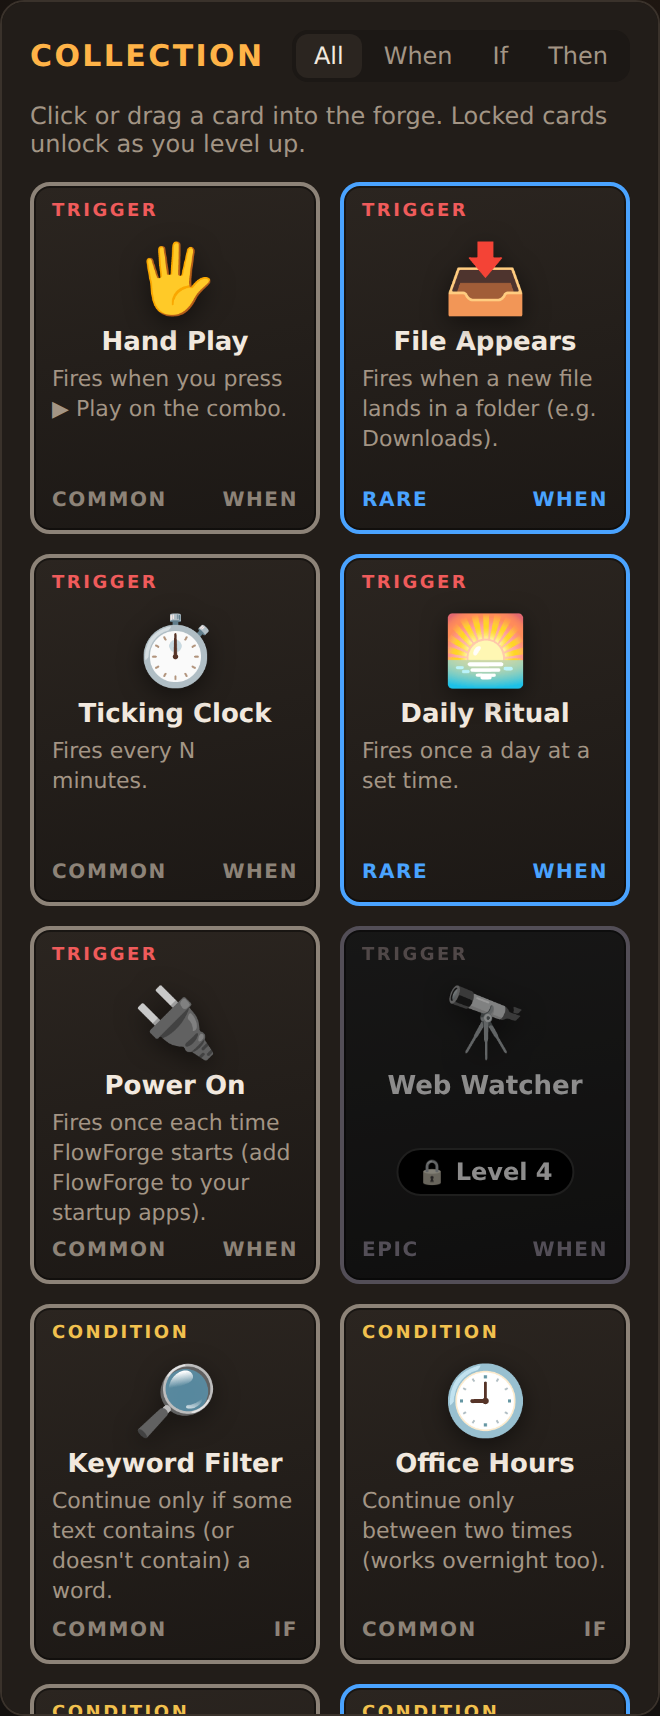
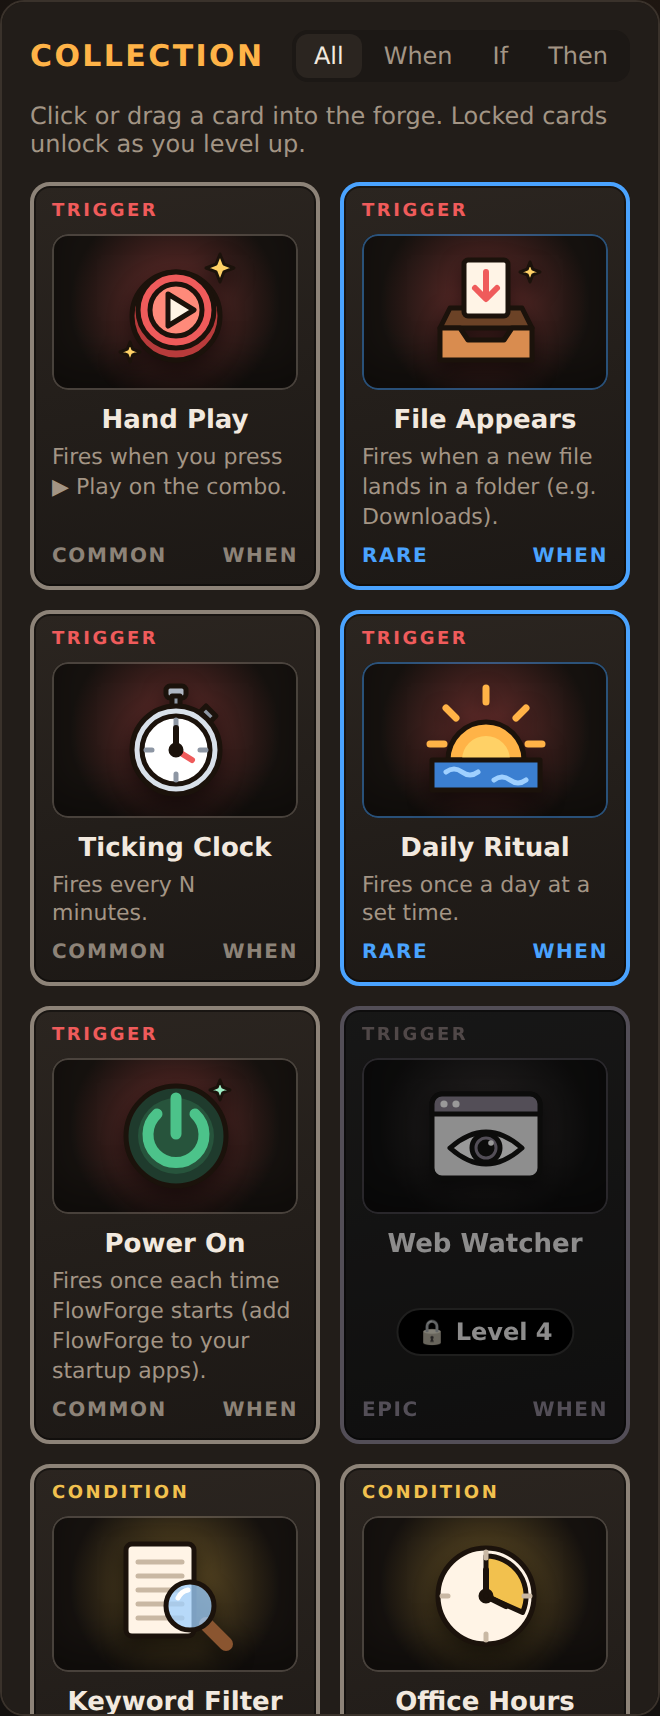
Add hand-drawn card art and polish the UI
- Custom SVG illustration for all 19 cards (public/art.js), shown in the
  collection, forge slots and combo chains
- Card art window tinted by card type; epic cards glow, legendary cards
  shimmer (respects prefers-reduced-motion)
- Fix card footer wrapping on action cards
- Header no longer sticks on phones, where it covered a third of the screen
- Log messages show ~/ paths instead of full home paths
- Refresh README screenshots

Claude-Session: https://claude.ai/code/session_01Wm8TE3zwYDLddBccTdRBqf

Changed region(s): [[0.0303, 0.1235, 0.4848, 1.0], [0.5152, 0.1235, 0.9697, 1.0]]

diff --git a/public/art.js b/public/art.js
@@ -1,0 +1,173 @@
+// Hand-drawn card art: one 64×64 SVG illustration per card, in a shared
+// style (bold dark outline, warm palette). art(id) returns inline SVG markup.
+
+const INK = '#1b120b';
+
+// Four-point sparkle.
+const star = (cx, cy, r, fill = '#ffd166') => {
+  const k = r * 0.28;
+  return `<path fill="${fill}" stroke-width="1.5" d="M${cx} ${cy - r}L${cx + k} ${cy - k}L${cx + r} ${cy}L${cx + k} ${cy + k}L${cx} ${cy + r}L${cx - k} ${cy + k}L${cx - r} ${cy}L${cx - k} ${cy - k}Z"/>`;
+};
+
+const lines = (x1, x2, ys, color = '#c9b8a3') =>
+  ys.map((y) => `<path stroke="${color}" stroke-width="2.5" d="M${x1} ${y}H${x2}"/>`).join('');
+
+const ART = {
+  // ---------- WHEN ----------
+  manual: `
+    <circle cx="32" cy="34" r="22" fill="#b83b3b"/>
+    <circle cx="32" cy="31" r="19" fill="#ef5b5b"/>
+    <circle cx="32" cy="31" r="13" fill="#ff8a7a"/>
+    <path fill="#fff4e6" d="M28 23L41 31L28 39Z"/>
+    ${star(54, 10, 7)}${star(9, 52, 5)}`,
+
+  'file-appears': `
+    <path fill="#6b4226" d="M14 30H50L55 40H9Z"/>
+    <rect x="21" y="6" width="22" height="28" rx="2" fill="#fff4e6"/>
+    <path fill="none" stroke="#ef5b5b" stroke-width="3" d="M32 12V25M26.5 20L32 25.5L37.5 20"/>
+    <path fill="#d98c4f" d="M9 40H19L23 46H41L45 40H55V56H9Z"/>
+    ${star(54, 12, 5)}`,
+
+  interval: `
+    <rect x="27" y="5" width="10" height="6" rx="2" fill="#b0b8c4"/>
+    <rect x="30" y="10" width="4" height="6" fill="#8d96a3"/>
+    <path fill="#8d96a3" d="M47 15L52 20L49 23L44 18Z"/>
+    <circle cx="32" cy="37" r="22" fill="#d9e1ea"/>
+    <circle cx="32" cy="37" r="17" fill="#fff"/>
+    <path stroke="#8d96a3" stroke-width="2.5" d="M32 22V25M32 49V52M17 37H20M44 37H47"/>
+    <path fill="none" stroke="${INK}" stroke-width="3" d="M32 37V26"/>
+    <path fill="none" stroke="#ef5b5b" stroke-width="3" d="M32 37L40 42"/>
+    <circle cx="32" cy="37" r="2.5" fill="${INK}"/>`,
+
+  daily: `
+    <path stroke="#ffb347" stroke-width="3.5" d="M32 6V13M12 16L17 21M52 16L47 21M4 34H11M60 34H53"/>
+    <path fill="#ffb347" d="M13 42A19 19 0 0 1 51 42Z"/>
+    <path fill="#ffd166" stroke="none" d="M20 42A12 12 0 0 1 44 42Z"/>
+    <path fill="#3b7fd1" d="M5 42H59V57H5Z"/>
+    <path fill="none" stroke="#9fd0ff" stroke-width="2.5" d="M12 48Q16 45 20 48T28 48M36 52Q40 49 44 52T52 52"/>`,
+
+  'on-start': `
+    <circle cx="32" cy="32" r="25" fill="#1f3b2d"/>
+    <circle cx="32" cy="32" r="19" fill="#27543c" stroke-width="0"/>
+    <path fill="none" stroke="#4cc38a" stroke-width="5.5" d="M22.5 21A14 14 0 1 0 41.5 21"/>
+    <path fill="none" stroke="#4cc38a" stroke-width="5.5" d="M32 13V31"/>
+    ${star(54, 9, 5, '#9ff0c6')}`,
+
+  'page-changes': `
+    <rect x="5" y="11" width="54" height="42" rx="5" fill="#e8edf2"/>
+    <path fill="#b36bff" d="M5 16A5 5 0 0 1 10 11H54A5 5 0 0 1 59 16V21H5Z"/>
+    <circle cx="11" cy="16" r="1.8" fill="#fff" stroke="none"/><circle cx="17" cy="16" r="1.8" fill="#fff" stroke="none"/>
+    <path fill="#fff" d="M14 38Q32 22 50 38Q32 54 14 38Z"/>
+    <circle cx="32" cy="38" r="7" fill="#b36bff"/>
+    <circle cx="32" cy="38" r="3" fill="${INK}"/>
+    <circle cx="34.5" cy="35.5" r="1.4" fill="#fff" stroke="none"/>`,
+
+  // ---------- IF ----------
+  'text-contains': `
+    <rect x="7" y="7" width="34" height="46" rx="3" fill="#fff4e6"/>
+    ${lines(13, 35, [16, 23, 30, 37, 44])}
+    <path stroke="#8a5530" stroke-width="7" d="M47 47L57 57"/>
+    <circle cx="39" cy="38" r="12" fill="#9fd0ff" fill-opacity="0.75"/>
+    <path fill="none" stroke="#fff" stroke-width="2.5" d="M33 34A7 7 0 0 1 38 30"/>`,
+
+  'time-window': `
+    <circle cx="32" cy="33" r="24" fill="#fff4e6"/>
+    <path fill="#f2c14e" d="M32 33L32 13A20 20 0 0 1 50.3 41.2Z"/>
+    <path stroke="#c9b8a3" stroke-width="2.5" d="M32 11V14M32 52V55M10 33H13M51 33H54"/>
+    <path fill="none" stroke="${INK}" stroke-width="3" d="M32 33V20M32 33L42 38"/>
+    <circle cx="32" cy="33" r="2.5" fill="${INK}"/>`,
+
+  'day-type': `
+    <rect x="7" y="12" width="50" height="44" rx="5" fill="#fff4e6"/>
+    <path fill="#ef5b5b" d="M7 17A5 5 0 0 1 12 12H52A5 5 0 0 1 57 17V25H7Z"/>
+    <rect x="17" y="6" width="5" height="12" rx="2.5" fill="#8d8378"/>
+    <rect x="42" y="6" width="5" height="12" rx="2.5" fill="#8d8378"/>
+    <g fill="#e5d6c2" stroke-width="0">
+      <rect x="13" y="30" width="9" height="8" rx="1.5"/><rect x="27.5" y="30" width="9" height="8" rx="1.5"/>
+      <rect x="13" y="42" width="9" height="8" rx="1.5"/><rect x="27.5" y="42" width="9" height="8" rx="1.5"/><rect x="42" y="42" width="9" height="8" rx="1.5"/>
+    </g>
+    <rect x="42" y="30" width="9" height="8" rx="1.5" fill="#4cc38a"/>
+    <path fill="none" stroke="#fff" stroke-width="2" d="M44 34L46 36L49.5 32"/>`,
+
+  'file-size': `
+    <path stroke="#8a5530" stroke-width="4" d="M32 14V52M21 55H43"/>
+    <path stroke="#b0b8c4" stroke-width="3.5" d="M9 18L55 24"/>
+    <path fill="none" stroke="#8d8378" stroke-width="1.8" d="M9 18L4 36M9 18L16 36M55 24L48 42M55 24L60 42"/>
+    <path fill="#ffb347" d="M2 36H18Q10 46 2 36Z"/>
+    <path fill="#ffb347" d="M46 42H62Q54 52 46 42Z"/>
+    <rect x="49" y="33" width="10" height="9" rx="1.5" fill="#fff4e6"/>
+    <circle cx="32" cy="12" r="4" fill="#ffd166"/>`,
+
+  // ---------- THEN ----------
+  notify: `
+    <path fill="none" stroke="#ffd166" stroke-width="3" d="M10 22Q7 29 10 36M54 22Q57 29 54 36M4 18Q0 29 4 40M60 18Q64 29 60 40"/>
+    <circle cx="32" cy="12" r="3.5" fill="#f2c14e"/>
+    <path fill="#ffd166" d="M17 45Q20 39 20 28A12 12 0 0 1 44 28Q44 39 47 45Z"/>
+    <path fill="none" stroke="#fff4e6" stroke-width="2.5" d="M25 26A7 7 0 0 1 30 20"/>
+    <rect x="13" y="43" width="38" height="6" rx="3" fill="#f2c14e"/>
+    <circle cx="32" cy="53" r="4.5" fill="#d99a2b"/>`,
+
+  'move-file': `
+    <ellipse cx="32" cy="51" rx="27" ry="7" fill="#4a2f73"/>
+    <path fill="#7a52b3" d="M17 50Q22 32 30 18Q34 9 42 7Q37 13 38 20Q42 30 47 50Z"/>
+    <path fill="#ffb347" d="M18.5 44Q32 49 45.5 44L47 50Q32 55 17 50Z"/>
+    ${star(31, 31, 6)}${star(52, 14, 4)}${star(12, 22, 3.5)}`,
+
+  'write-log': `
+    <rect x="12" y="12" width="36" height="40" fill="#fff4e6"/>
+    <rect x="8" y="7" width="44" height="9" rx="4.5" fill="#e0c9a6"/>
+    <rect x="8" y="48" width="44" height="9" rx="4.5" fill="#e0c9a6"/>
+    ${lines(17, 38, [23, 30, 37, 43])}
+    <path fill="#fff" d="M58 4Q62 16 44 36L40 40Q40 20 58 4Z"/>
+    <path fill="none" stroke="#c9b8a3" stroke-width="1.5" d="M55 10Q48 22 42 36"/>
+    <path stroke="${INK}" stroke-width="2.5" d="M40 40L36 46"/>`,
+
+  'open-url': `
+    <circle cx="32" cy="32" r="26" fill="#1e3a5f"/>
+    <circle cx="32" cy="32" r="20" fill="#2f6fb5" stroke-width="0"/>
+    <circle cx="32" cy="32" r="13" fill="#4aa3ff" stroke-width="0"/>
+    <circle cx="32" cy="32" r="6" fill="#dff1ff" stroke-width="0"/>
+    <path fill="none" stroke="#dff1ff" stroke-width="2.2" stroke-opacity="0.85" d="M28 32A4 4 0 1 1 36 32A8 8 0 1 1 20 32A12 12 0 1 1 44 32A16 16 0 1 1 12 32"/>
+    ${star(54, 9, 5, '#9fd0ff')}`,
+
+  'open-file': `
+    <path fill="#b06b35" d="M5 16H23L28 21H53V52H5Z"/>
+    <rect x="12" y="14" width="34" height="24" rx="2" fill="#fff4e6"/>
+    ${lines(17, 38, [21, 27])}
+    <path fill="#f2a65a" d="M5 29H59L52 53H10Z"/>
+    ${star(52, 9, 6)}${star(40, 5, 3)}`,
+
+  'copy-file': `
+    <rect x="7" y="7" width="30" height="38" rx="3" fill="#9fd0ff"/>
+    ${lines(13, 30, [16, 23, 30], '#5d9fd6')}
+    <rect x="25" y="19" width="31" height="39" rx="3" fill="#fff4e6"/>
+    ${lines(31, 49, [29, 36, 43, 50])}
+    <path fill="none" stroke="#4cc38a" stroke-width="3" d="M9 52Q11 60 20 58M16 54L20 58L16 62"/>`,
+
+  'rename-file': `
+    <path fill="none" stroke="#8d8378" stroke-width="2" d="M44 18Q54 4 61 9"/>
+    <path fill="#ffb347" d="M8 34L32 10H54V32L30 56Z"/>
+    <circle cx="45" cy="19" r="4" fill="#221d19"/>
+    <path stroke="#8a5530" stroke-width="3" d="M22 37L35 24M27 43L37 33"/>`,
+
+  discord: `
+    <path fill="#8f84c9" d="M20 30C14 20 8 14 1 13C2 17 4 19 6 20C3 21 2 23 2 25C5 26 8 26 10 26C8 28 8 30 9 32C12 33 15 33 18 33C17 35 18 37 20 38Z"/>
+    <path fill="#8f84c9" d="M44 30C50 20 56 14 63 13C62 17 60 19 58 20C61 21 62 23 62 25C59 26 56 26 54 26C56 28 56 30 55 32C52 33 49 33 46 33C47 35 46 37 44 38Z"/>
+    <path fill="none" stroke="#5b5190" stroke-width="1.8" d="M16 24Q10 20 5 18M16 30Q11 28 6 26M48 24Q54 20 59 18M48 30Q53 28 58 26"/>
+    <rect x="13" y="26" width="38" height="27" rx="3" fill="#fff4e6"/>
+    <path fill="none" d="M13 29L32 42L51 29"/>
+    <circle cx="32" cy="42" r="5" fill="#5865f2"/>`,
+
+  'run-command': `
+    <rect x="4" y="8" width="42" height="32" rx="5" fill="#241c16"/>
+    <path fill="none" stroke="#4cc38a" stroke-width="3" d="M11 18L17 23L11 28M21 30H30"/>
+    <path stroke="#8a5530" stroke-width="7" d="M24 58L48 34"/>
+    <path stroke="#ffd166" stroke-width="7" d="M44 38L48 34"/>
+    ${star(52, 30, 10, '#ff9f1c')}${star(58, 12, 4)}${star(38, 52, 3.5)}`,
+};
+
+export function art(id, fallback = '') {
+  const body = ART[id];
+  if (!body) return `<span class="art-fallback">${fallback}</span>`;
+  return `<svg class="art" viewBox="0 0 64 64" aria-hidden="true"><g stroke="${INK}" stroke-width="2.5" stroke-linejoin="round" stroke-linecap="round">${body}</g></svg>`;
+}

diff --git a/public/style.css b/public/style.css
@@ -186,14 +186,54 @@ h3 { font-size: 13px; letter-spacing: 0.06em; text-transform: uppercase; color: 
   color: var(--type);
 }
 .card-art {
-  font-size: 34px;
-  text-align: center;
-  padding: 8px 0 4px;
-  filter: drop-shadow(0 3px 6px rgba(0, 0, 0, 0.5));
+  position: relative;
+  height: 78px;
+  margin: 6px 0 8px;
+  border-radius: 8px;
+  display: grid;
+  place-items: center;
+  overflow: hidden;
+  background:
+    radial-gradient(circle at 50% 45%, color-mix(in srgb, var(--type) 38%, transparent), transparent 70%),
+    #16120f;
+  box-shadow: inset 0 0 0 1px color-mix(in srgb, var(--rarity) 45%, transparent), inset 0 -12px 20px rgba(0, 0, 0, 0.35);
 }
+.card-art .art {
+  width: 64px;
+  height: 64px;
+  filter: drop-shadow(0 4px 5px rgba(0, 0, 0, 0.55));
+  transition: transform 0.25s ease;
+}
+.card:hover .card-art .art { transform: scale(1.1) rotate(-4deg); }
+.art-fallback { font-size: 34px; }
+
+/* Epic cards glow, legendary cards shimmer. */
+.card.epic .card-art { animation: epic-glow 3s ease-in-out infinite; }
+@keyframes epic-glow {
+  50% { box-shadow: inset 0 0 0 1px var(--epic), inset 0 0 22px color-mix(in srgb, var(--epic) 45%, transparent); }
+}
+.card.legendary .card-art::after {
+  content: "";
+  position: absolute;
+  inset: -50% -120%;
+  background: linear-gradient(105deg, transparent 42%, rgba(255, 223, 150, 0.45) 50%, transparent 58%);
+  animation: shimmer 3.2s ease-in-out infinite;
+  pointer-events: none;
+}
+@keyframes shimmer {
+  0% { transform: translateX(-40%); }
+  60%, 100% { transform: translateX(40%); }
+}
+.card.locked .card-art { animation: none; }
+.card.locked .card-art::after { display: none; }
+
+@media (prefers-reduced-motion: reduce) {
+  .card-art, .card-art::after, .card-art .art { animation: none !important; transition: none; }
+}
+
 .card-name { font-weight: 700; font-size: 13px; text-align: center; }
 .card-text { font-size: 11px; color: var(--muted); margin-top: 4px; line-height: 1.35; flex: 1; }
-.card-foot { display: flex; justify-content: space-between; font-size: 10px; margin-top: 6px; color: var(--rarity); text-transform: uppercase; letter-spacing: 0.08em; font-weight: 700; }
+.card-foot { display: flex; justify-content: space-between; gap: 6px; white-space: nowrap; font-size: 10px; margin-top: 6px; color: var(--rarity); text-transform: uppercase; letter-spacing: 0.08em; font-weight: 700; }
 
 .card.locked { cursor: not-allowed; filter: grayscale(0.9) brightness(0.6); }
 .card.locked:hover { transform: none; box-shadow: none; }
@@ -243,7 +283,16 @@ h3 { font-size: 13px; letter-spacing: 0.06em; text-transform: uppercase; color: 
 .slot.trigger { --type: var(--trigger); }
 .slot.condition { --type: var(--condition); }
 .slot-head { display: flex; align-items: center; gap: 8px; }
-.slot-head .emoji { font-size: 20px; }
+.slot-art {
+  width: 34px;
+  height: 34px;
+  flex: none;
+  border-radius: 7px;
+  background: radial-gradient(circle, color-mix(in srgb, var(--type) 35%, transparent), #16120f 75%);
+  display: grid;
+  place-items: center;
+}
+.slot-art .art { width: 28px; height: 28px; }
 .slot-head .name { font-weight: 700; flex: 1; }
 .slot-head .order { color: var(--muted); font-size: 12px; font-weight: 700; }
 .slot-tools button { border: 0; background: none; padding: 2px 5px; color: var(--muted); border-radius: 4px; }
@@ -299,6 +348,8 @@ h3 { font-size: 13px; letter-spacing: 0.06em; text-transform: uppercase; color: 
 .combo-top .name { font-weight: 700; flex: 1; overflow-wrap: anywhere; }
 .stars { color: var(--ember-2); font-size: 12px; white-space: nowrap; }
 .chain { font-size: 18px; margin: 8px 0; display: flex; align-items: center; flex-wrap: wrap; gap: 4px; }
+.chain-art { display: inline-grid; width: 30px; height: 30px; place-items: center; border-radius: 7px; background: #16120f; border: 1px solid var(--line); }
+.chain-art .art { width: 24px; height: 24px; }
 .chain .sep { font-size: 12px; color: var(--muted); }
 .combo .bar { height: 5px; }
 .combo-meta { font-size: 11px; color: var(--muted); margin-top: 6px; }
@@ -392,7 +443,7 @@ dialog::backdrop { background: rgba(0, 0, 0, 0.6); }
 }
 
 @media (max-width: 760px) {
-  .topbar { gap: 12px; padding: 10px 16px; }
+  .topbar { gap: 12px; padding: 10px 16px; position: static; }
   .stats { margin-left: 0; }
   .board {
     grid-template-columns: 1fr;

diff --git a/public/app.js b/public/app.js
@@ -1,5 +1,7 @@
 // FlowForge UI: collection, forge (combo builder), combos, log and toasts.
 
+import { art } from './art.js';
+
 const $ = (sel) => document.querySelector(sel);
 
 const esc = (value) =>
@@ -118,13 +120,13 @@ function renderPlayer(previousLevel) {
 
 // ---------- collection ----------
 function cardHtml(card) {
-  const foot = card.type === 'action' ? `saves ${card.saves}s` : TYPE_LABEL[card.type];
+  const foot = card.type === 'action' ? `⏳ ${card.saves}s` : TYPE_LABEL[card.type];
   return `
     <div class="card ${card.type} ${card.rarity} ${card.unlocked ? '' : 'locked'}"
          data-card="${card.id}" draggable="${card.unlocked}" tabindex="${card.unlocked ? 0 : -1}"
          role="button" aria-label="${esc(card.name)}${card.unlocked ? '' : `, locked until level ${card.unlock}`}">
       <div class="card-type">${card.type.toUpperCase()}</div>
-      <div class="card-art">${card.emoji}</div>
+      <div class="card-art">${art(card.id, card.emoji)}</div>
       <div class="card-name">${esc(card.name)}</div>
       <div class="card-text">${esc(card.text)}</div>
       <div class="card-foot"><span>${card.rarity}</span><span>${foot}</span></div>
@@ -225,7 +227,7 @@ function slotHtml(lane, index, slot, count) {
   return `
     <div class="slot ${card.type}">
       <div class="slot-head">
-        ${order}<span class="emoji">${card.emoji}</span><span class="name">${esc(card.name)}</span>
+        ${order}<span class="slot-art">${art(card.id, card.emoji)}</span><span class="name">${esc(card.name)}</span>
         <span class="slot-tools">${move}<button data-remove data-lane="${lane}" data-index="${index}" title="Remove">✕</button></span>
       </div>
       ${card.params.length ? `<div class="slot-fields">${card.params.map((p) => fieldHtml(lane, index, p, slot.params[p.key] ?? '')).join('')}</div>` : ''}
@@ -352,7 +354,7 @@ function comboHtml(c) {
   const chainCards = [c.trigger, ...c.conditions, ...c.actions].map((s) => cardById(s.card));
   const chain = chainCards.map((card, i) => {
     const sep = i === 0 ? '' : i === 1 + c.conditions.length ? '<span class="sep">➜</span>' : '<span class="sep">·</span>';
-    return `${sep}<span title="${esc(card?.name)}">${card?.emoji ?? '?'}</span>`;
+    return `${sep}<span class="chain-art" title="${esc(card?.name)}">${card ? art(card.id, card.emoji) : '?'}</span>`;
   }).join('');
   const stars = '★'.repeat(Math.min(c.level.level, 5)) + (c.level.level > 5 ? ` +${c.level.level - 5}` : '');
   const error = c.armError || c.lastError;

diff --git a/src/cards.js b/src/cards.js
@@ -11,7 +11,7 @@ import fs from 'node:fs';
 import fsp from 'node:fs/promises';
 import path from 'node:path';
 import crypto from 'node:crypto';
-import { expandHome } from './platform.js';
+import { expandHome, tildify } from './platform.js';
 
 const TEMP_FILE = /(\.(crdownload|part|partial|tmp|download|swp)$)|(^~\$)|(^\.)/i;
 
@@ -120,7 +120,7 @@ const TRIGGERS = [
     start({ params, fire, helpers }) {
       const dir = resolveFolder(params.folder);
       if (!fs.existsSync(dir) || !fs.statSync(dir).isDirectory()) {
-        throw new Error(`Folder not found: ${dir}`);
+        throw new Error(`Folder not found: ${tildify(dir)}`);
       }
       const exts = String(params.extensions || '')
         .split(/[\s,]+/)
@@ -344,7 +344,7 @@ const ACTIONS = [
       helpers.markWritten(dest);
       await moveFile(src, dest);
       ctx.file = fileInfo(dest, await fsp.stat(dest));
-      return `Moved ${ctx.file.name} → ${dir}`;
+      return `Moved ${ctx.file.name} → ${tildify(dir)}`;
     },
   },
   {
@@ -415,7 +415,7 @@ const ACTIONS = [
       const dest = await uniquePath(path.join(dir, path.basename(src)));
       helpers.markWritten(dest);
       await fsp.copyFile(src, dest);
-      return `Copied ${path.basename(src)} → ${dir}`;
+      return `Copied ${path.basename(src)} → ${tildify(dir)}`;
     },
   },
   {

diff --git a/src/platform.js b/src/platform.js
@@ -24,6 +24,12 @@ export function expandHome(p) {
   return p;
 }
 
+// "/home/me/Downloads" -> "~/Downloads", for friendlier log messages.
+export function tildify(p) {
+  const home = os.homedir();
+  return p === home || p.startsWith(home + path.sep) ? `~${p.slice(home.length)}` : p;
+}
+
 // Best effort: the UI also shows every notification as a toast, so a missing
 // notify-send (for example) is not fatal.
 export async function notify(title, message) {

diff --git a/README.md b/README.md
@@ -17,9 +17,13 @@ Snap cards together into combos: a **WHEN** card (trigger), optional **IF** card
 |---|---|
 | ![Editing the Invoice Catcher combo in the forge](docs/screenshots/forge.png) | ![Card collection with rarities and a locked epic card](docs/screenshots/collection.png) |
 
-| Achievements | On a phone |
+| Action cards: common → rare → epic → legendary | On a phone |
 |---|---|
-| ![Achievements dialog](docs/screenshots/achievements.png) | ![FlowForge on a narrow screen](docs/screenshots/mobile.png) |
+| ![Action cards, including a locked epic and legendary card](docs/screenshots/cards-actions.png) | ![FlowForge on a narrow screen](docs/screenshots/mobile.png) |
+
+![Achievements dialog](docs/screenshots/achievements.png)
+
+Every card has its own hand-drawn SVG illustration (`public/art.js`), so there are no image files to download and the art stays sharp at any size. Epic cards glow and legendary cards shimmer.
 
 ## Run it
 
@@ -94,7 +98,7 @@ src/game.js      levels and achievements
 src/platform.js  notifications / open / shell per OS
 src/store.js     atomic JSON save file
 src/server.js    localhost API + static UI
-public/          the card-game UI (vanilla JS)
+public/          the card-game UI (vanilla JS); card art in public/art.js
 ```
 
-Adding a card is one object in `src/cards.js`.
+Adding a card is one object in `src/cards.js`, plus its illustration in `public/art.js`.
